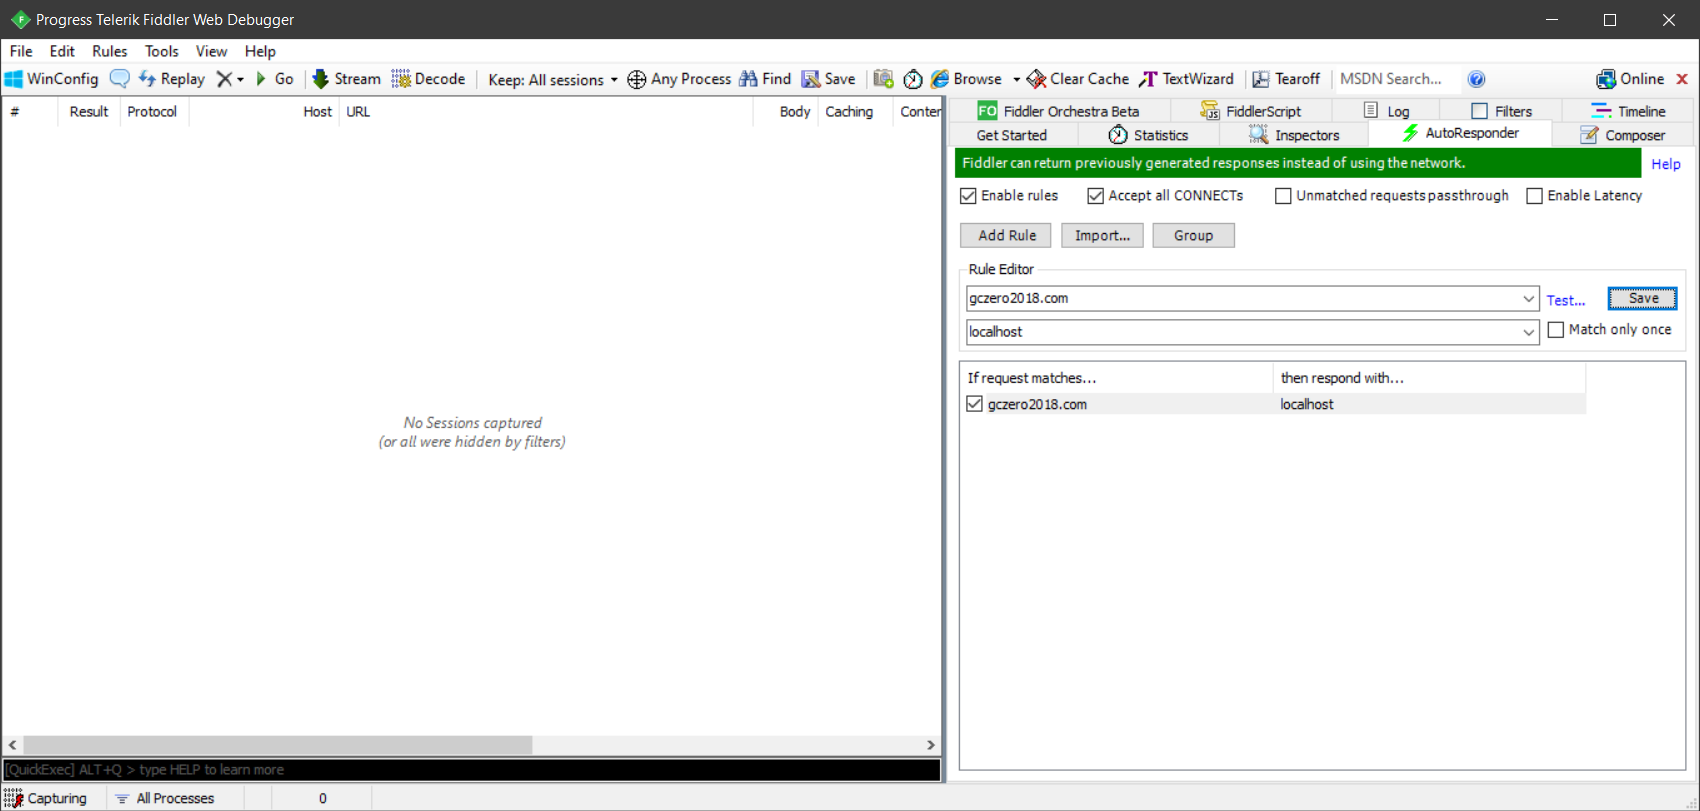
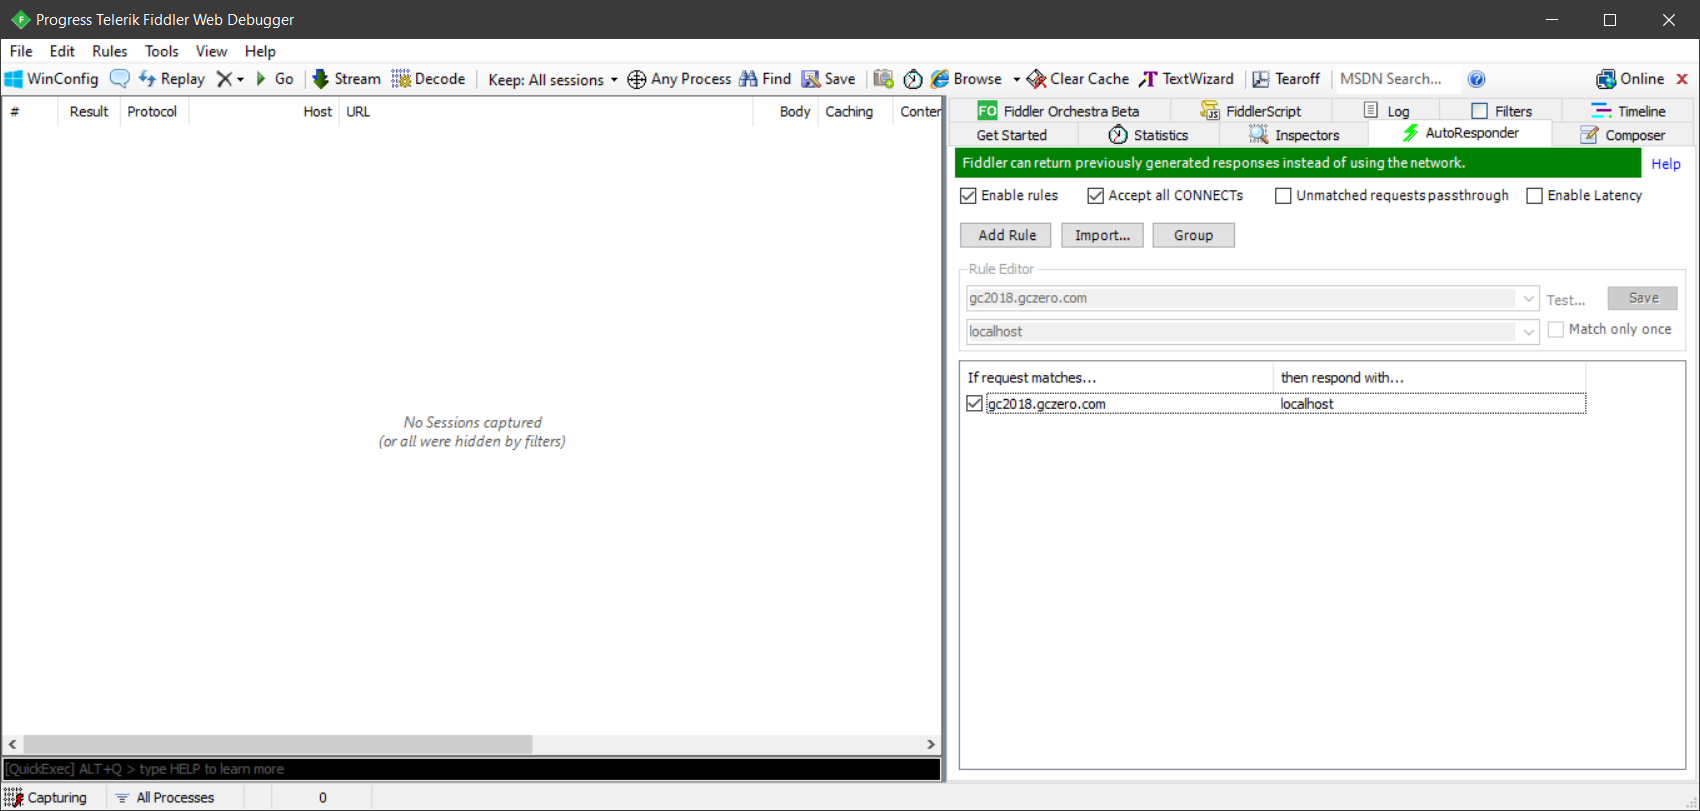
On rédige le readme

diff --git a/README.md b/README.md
@@ -73,7 +73,7 @@ Allez maintenant sur l'onglet **AutoResponder** dans le bordel à onglets à dro
 Cliquez sur **Add Rule**, puis dans le *Rule Editor*, et remplacez le *StringToMatch[1]* qui vient de s'afficher par 
 
 ```
-gczero2018.com
+gc2018.gczero.com
 ```
 
 et dans l'autre boîte de texte :
@@ -92,11 +92,13 @@ C'est fini pour Fiddler ! owo/
 
 ## Etape 3 : On s'occupe de gc2toolkit !
 
-Lancez gc2toolkit **avec les droits administrateurs*.
+Lancez gc2toolkit **avec les droits administrateurs**.
 
 Le programme devrait afficher :
 
 ![étape-7](./images/step7.PNG)
+
+
 
 
 
